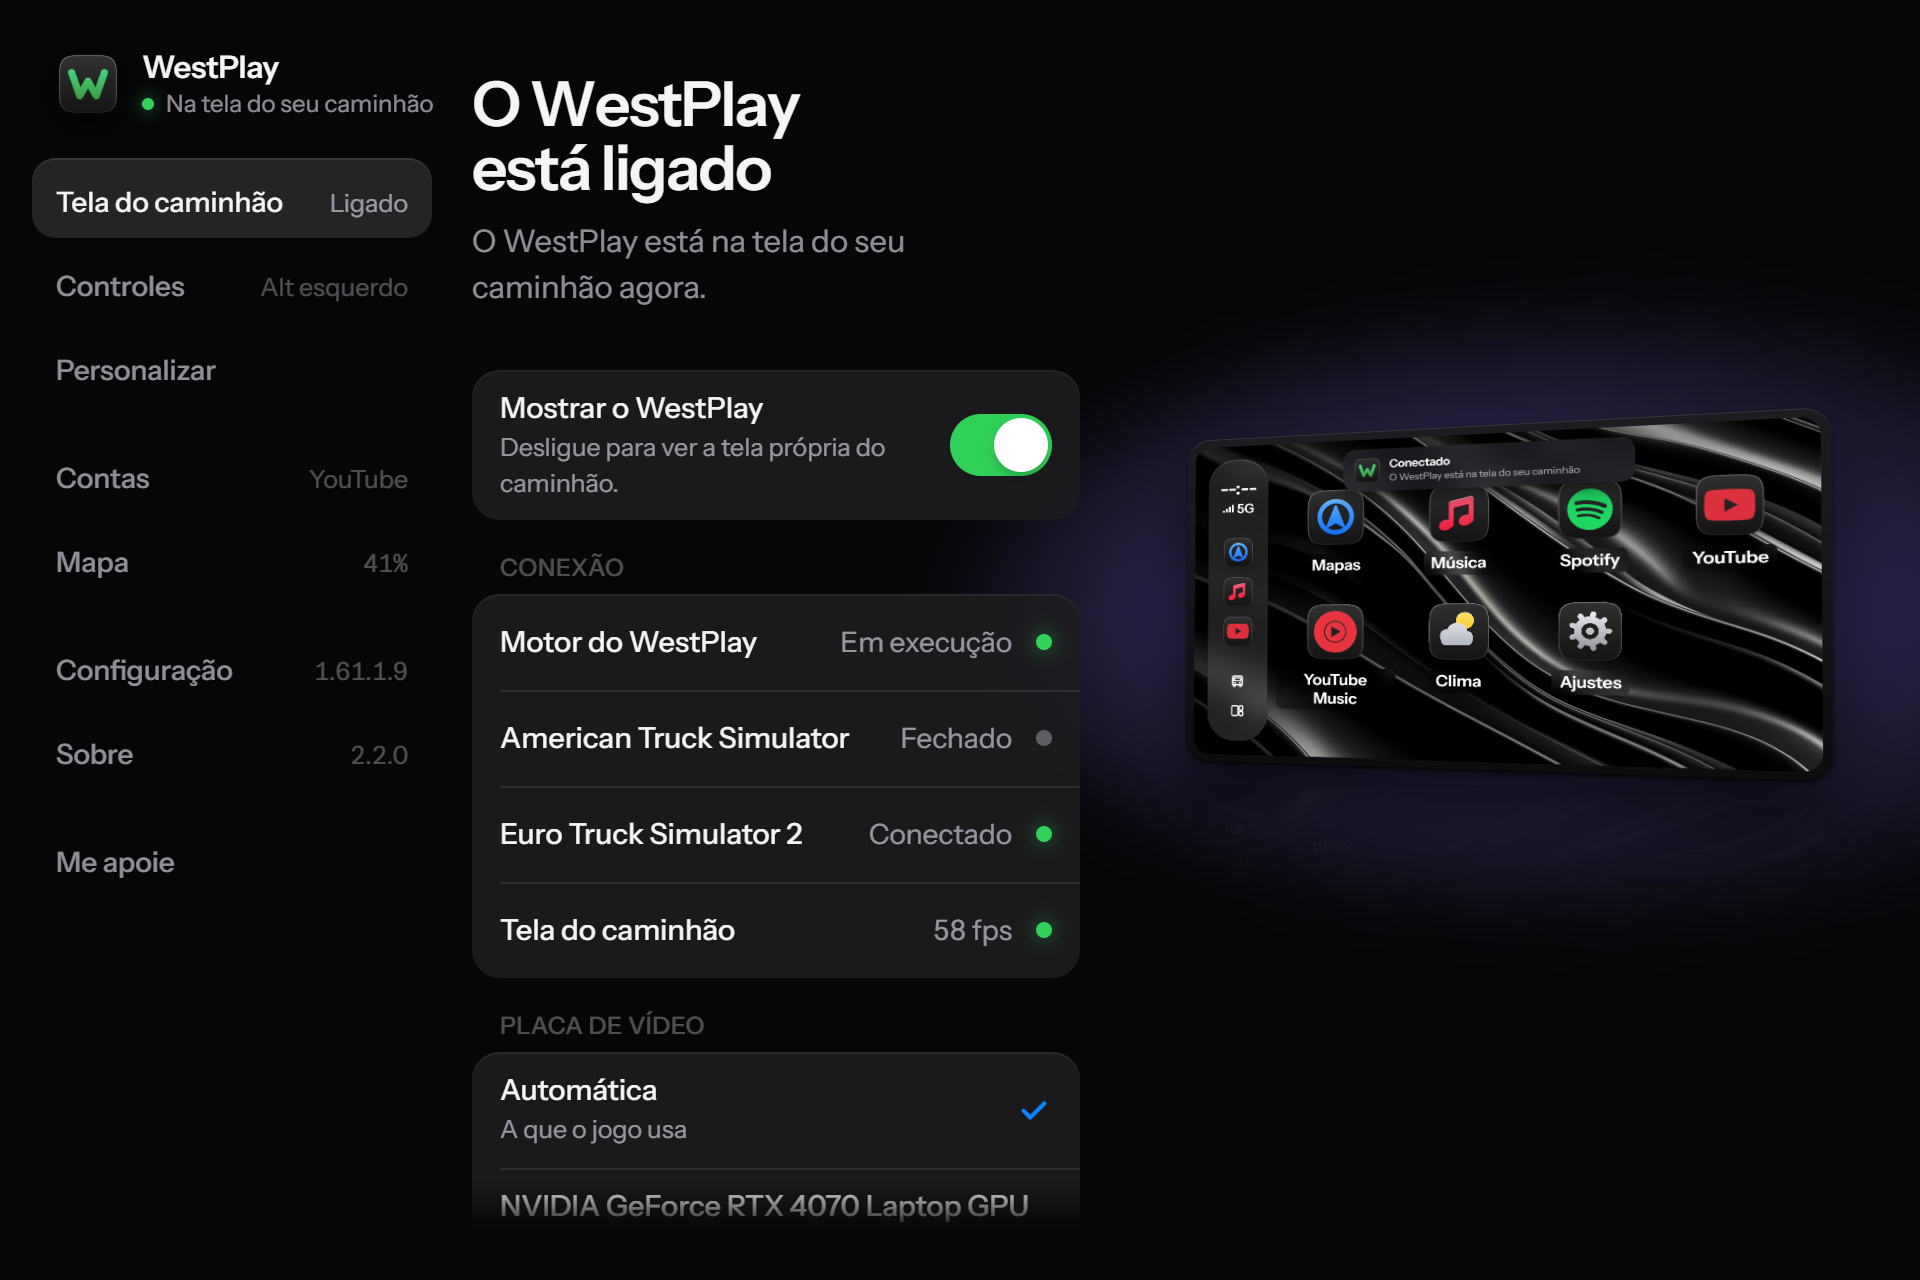
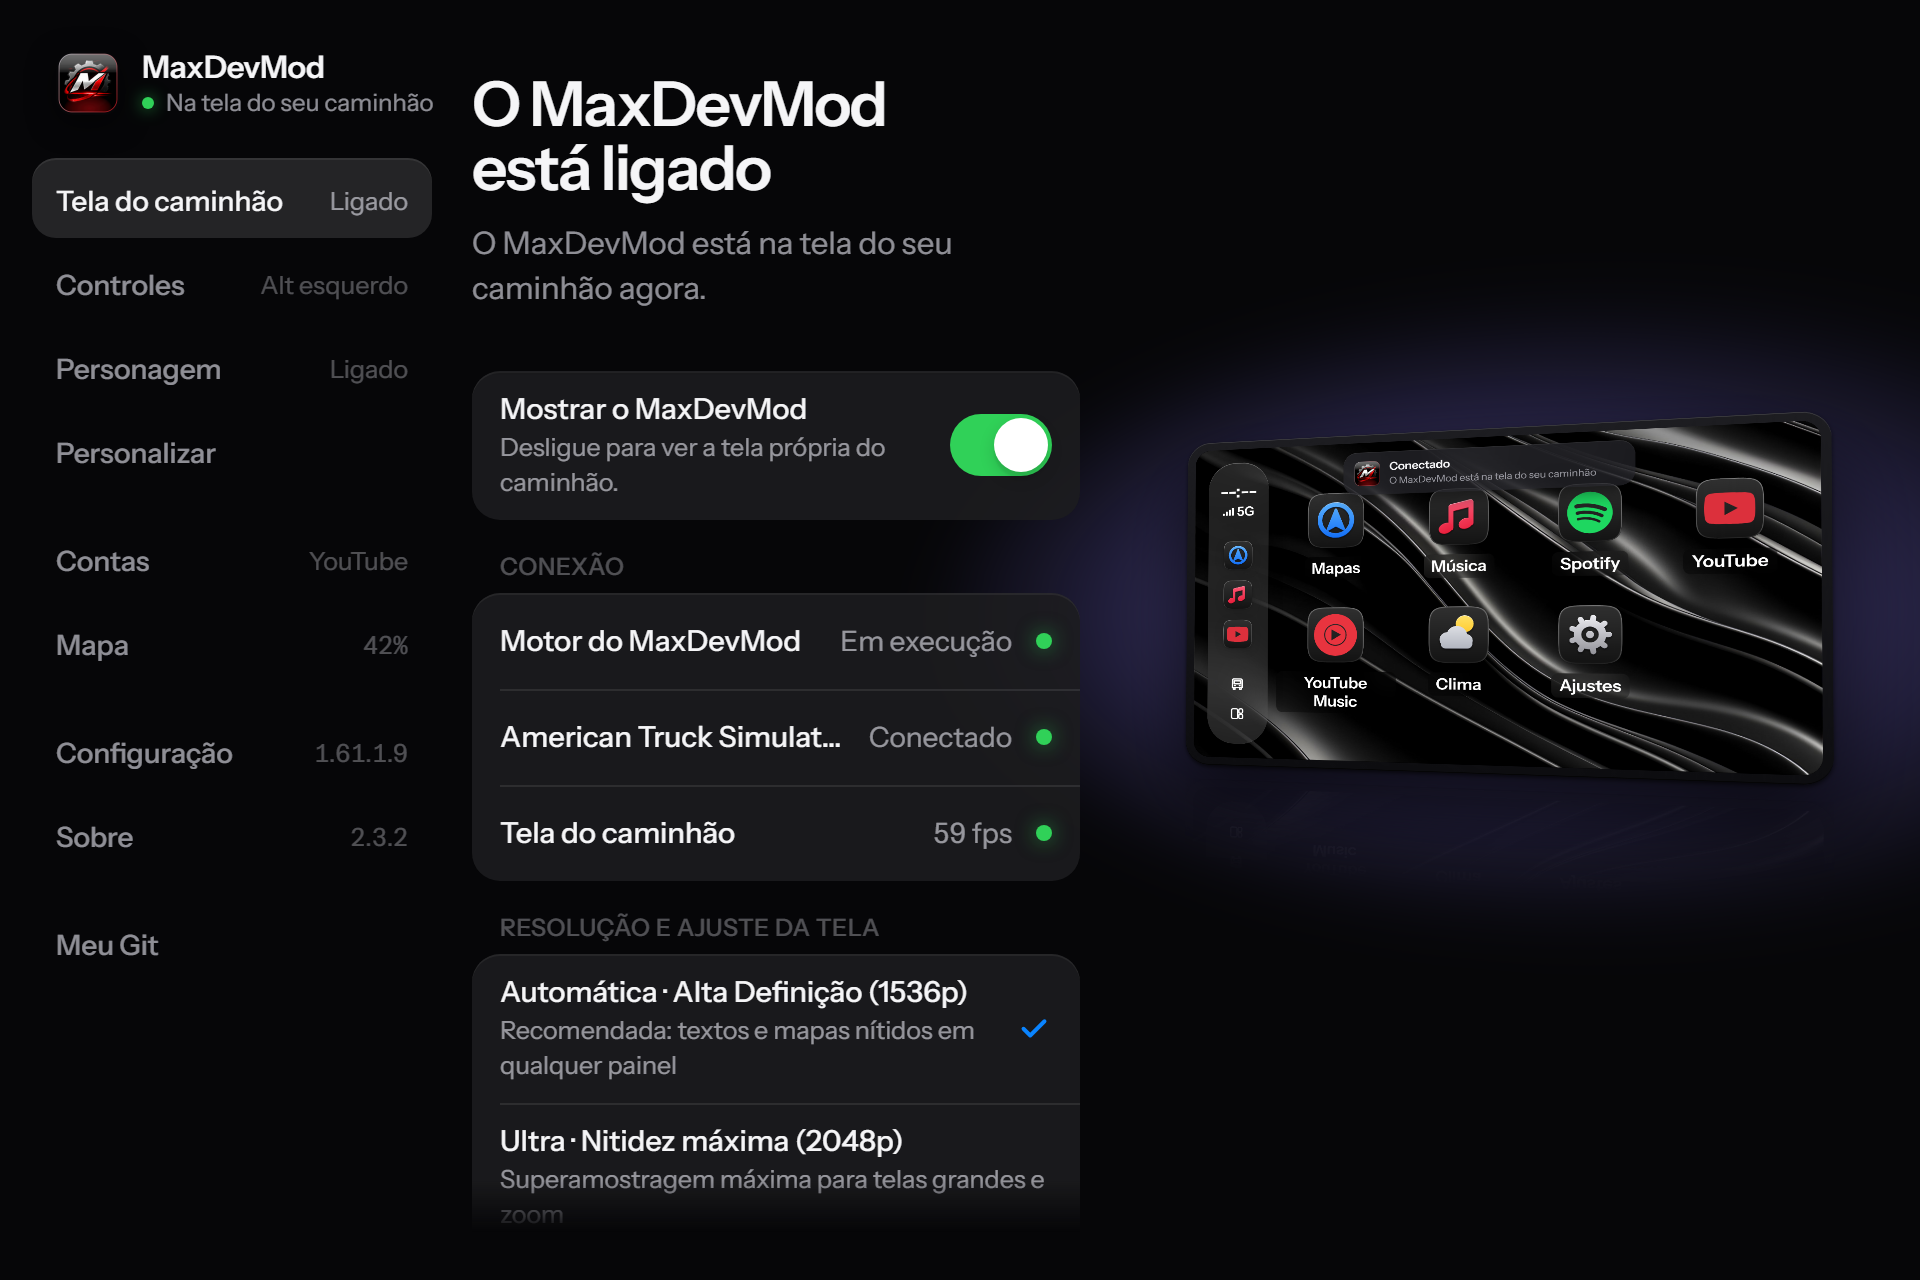
README: MaxDevMod 2.3.2, reversing camera, Modo Personagem, TikTok
The README under the new name, MaxDevMod, with what 2.3 brings: the reversing camera and
parking sensors, the Modo Personagem with its Liquid Glass HUD, the freight papers and manual
coupling, manual refuelling, TikTok with LIVE notifications on the phone, and the screen's
resolution. The PC app's screenshot taken again with the new name and logo. The credits name
WestPlay, the project it is based on.

diff --git a/README.md b/README.md
@@ -1,10 +1,11 @@
-<p align="center"><img src="ui/public/westplay.png" width="112" alt="WestPlay"></p>
+<p align="center"><img src="ui/public/maxdevmod-logo.png" width="320" alt="MaxDevMod"></p>
 
-<h1 align="center">WestPlay</h1>
+<h1 align="center">MaxDevMod</h1>
 
 <p align="center">
   <b>Uma tela no estilo CarPlay para os caminhões do American Truck Simulator e do Euro Truck Simulator 2.</b><br>
-  Seu mapa, sua música e o YouTube na tela do painel do caminhão, e um celular dentro do jogo.
+  Seu mapa, sua música e o YouTube na tela do painel, câmera de ré, um celular dentro do jogo e o Modo Personagem
+  para descer do caminhão.
 </p>
 
 <p align="center">
@@ -17,7 +18,9 @@
 
 <p align="center">
   <a href="#recursos">Recursos</a> ·
+  <a href="#câmera-de-ré">Câmera de ré</a> ·
   <a href="#o-celular">O celular</a> ·
+  <a href="#modo-personagem-beta">Modo Personagem</a> ·
   <a href="#veículos">Veículos</a> ·
   <a href="#instalação">Instalação</a> ·
   <a href="#privacidade">Privacidade</a>
@@ -28,14 +31,14 @@
 <picture>
   <source media="(prefers-color-scheme: dark)" srcset="docs/images/home-dark.png">
   <source media="(prefers-color-scheme: light)" srcset="docs/images/home-light.png">
-  <img alt="A tela inicial do WestPlay: Mapas, Música, Spotify, YouTube e YouTube Music na tela do caminhão" src="docs/images/home-dark.png" width="100%">
+  <img alt="A tela inicial do MaxDevMod: Mapas, Música, Spotify, YouTube e YouTube Music na tela do caminhão" src="docs/images/home-dark.png" width="100%">
 </picture>
 
-O WestPlay coloca uma central multimídia no estilo de um carro moderno na tela do painel do seu caminhão, dentro do
+O MaxDevMod coloca uma central multimídia no estilo de um carro moderno na tela do painel do seu caminhão, dentro do
 jogo. Ela traz a rota num mapa feito a partir do seu próprio jogo, sua música, o YouTube e o clima da viagem, tudo no
 lugar onde um caminhão de verdade tem a tela. Você usa com o mouse segurando uma tecla (Alt esquerdo, por padrão).
 
-Funciona no **American Truck Simulator** e no **Euro Truck Simulator 2**. Instalado nos dois, o WestPlay troca sozinho
+Funciona no **American Truck Simulator** e no **Euro Truck Simulator 2**. Instalado nos dois, o MaxDevMod troca sozinho
 para o jogo que você abrir.
 
 ## Recursos
@@ -82,33 +85,49 @@ para o jogo que você abrir.
   </tr>
   <tr>
     <td width="50%" valign="top">
-      <img alt="Ajustar Tela: bordas, proporção e tamanho do WestPlay na tela do veículo" src="docs/images/adjust-screen.png" width="100%">
+      <img alt="Ajustar Tela: bordas, proporção e tamanho do MaxDevMod na tela do veículo" src="docs/images/adjust-screen.png" width="100%">
       <h3>Ajustar Tela</h3>
-      Bordas, proporção e tamanho do WestPlay em cada tela, salvos por veículo, para caminhões de mod com telas de
+      Bordas, proporção e tamanho do MaxDevMod em cada tela, salvos por veículo, para caminhões de mod com telas de
       formatos diferentes. Dá para ajustar também pelo celular, se a tela ficar pequena demais para alcançar os
       Ajustes.
     </td>
     <td width="50%" valign="top">
       <img alt="Mapas sem o mapa do perfil: a grade, o rastro e a rota do GPS do jogo" src="docs/images/no-map.png" width="100%">
       <h3>Mesmo sem mapa, ele segue você</h3>
-      Num perfil cujo mapa o WestPlay não consegue montar (um mod de mapa protegido, como o Mapa Eldorado), o Mapas
+      Num perfil cujo mapa o MaxDevMod não consegue montar (um mod de mapa protegido, como o Mapa Eldorado), o Mapas
       continua acompanhando o caminhão: uma grade que anda com você, o caminho já feito e a rota do GPS do jogo.
     </td>
   </tr>
 </table>
 
-**O app no seu PC** cuida de tudo: acha o jogo, instala o WestPlay nele, monta o seu mapa e mostra em que jogo o
-WestPlay está conectado.
+**O app no seu PC** cuida de tudo: acha o jogo, instala o MaxDevMod nele, monta o seu mapa e mostra em que jogo o
+MaxDevMod está conectado. Em **Resolução e ajuste da tela** você escolhe a nitidez da tela do painel: a Automática
+(Alta Definição, 1536p) serve para qualquer painel, e a Ultra (2048p) deixa textos e mapas ainda mais nítidos nas
+telas grandes.
 
 <p align="center">
-  <img alt="O app do WestPlay no PC: o ATS fechado e o ETS2 conectado" src="docs/images/companion-games.png" width="80%">
+  <img alt="O app do MaxDevMod no PC: o ATS conectado e a tela do caminhão a 59 fps" src="docs/images/companion-games.png" width="80%">
 </p>
+
+## Câmera de ré
+
+Engate a ré e a tela do MaxDevMod no painel vira uma **câmera de ré**: na traseira da carreta, se houver uma engatada,
+ou na do caminhão. Ela some pouco depois de você tirar a ré, ou na hora se o caminhão andar para a frente.
+
+- **Linhas guia** no chão (vermelha até 1 m, amarela até 2 m, verde até 3 m) que curvam com o volante. Com carreta,
+  ela vai para o lado oposto, como na vida real.
+- **Sensores de estacionamento**: o bipe começa lento, fica mais rápido e mais alto conforme a traseira chega perto
+  de algo e vira um tom contínuo quando é para parar, com a distância ao lado da imagem.
+- A imagem é desenhada a partir do mapa do seu jogo (ruas na largura real, prédios em 3D e os caminhões dos outros
+  jogadores do TruckersMP), espelhada como numa câmera de verdade. Não é a imagem do próprio jogo.
+- Em **Ajustes → Câmera de Ré**, na tela do caminhão, cada parte liga e desliga sozinha: a câmera ao engatar a ré, o
+  bipe dos sensores e as linhas guia.
 
 ## O celular
 
 Um celular no estilo iPhone **dentro do jogo**, que aparece e some com **Alt+4**, e o mesmo celular **no seu celular de
 verdade**, pelo QR Code que o app mostra no PC. Os dois funcionam ao mesmo tempo, em qualquer caminhão, com ou sem a
-tela do WestPlay no painel.
+tela do MaxDevMod no painel.
 
 <table>
   <tr>
@@ -135,7 +154,14 @@ tela do WestPlay no painel.
 
 Ele também tem **Frete** (a carga e o peso, de onde para onde, quanto falta e quanto paga), **Caminhão** (velocidade, combustível, autonomia,
 piloto automático, motor, freio de mão e luzes), **Serviços** (abre a janela de serviços do jogo, com guincho e
-oficina, e estaciona rápido), o **mapa** e a **música**: YouTube Music, Spotify e o que estiver tocando.
+oficina, e estaciona rápido), **Personagem**, o **mapa** e a **música**: YouTube Music, Spotify e o que estiver
+tocando. Na segunda página dos apps ficam o Nupay, Serviços, Personagem e TikTok, com setas nos cantos para trocar de
+página. O celular se guarda sozinho no menu do jogo.
+
+**TikTok e notificações da LIVE.** O app TikTok do celular é o site oficial do TikTok: dá para rolar o feed, curtir,
+seguir e comentar como no site. Entre na sua conta em **Contas → TikTok**, no app do PC. Com a conta conectada, quem
+segue, manda presente, compartilha ou se inscreve na sua LIVE aparece como notificação no celular, com som. Com o
+celular guardado, só o topo dele sobe no canto da tela para mostrar o aviso.
 
 **O painel no celular.** O outro QR Code abre a tela do caminhão inteira no seu celular, deitado: o mapa, a rota, o
 que está tocando. É a mesma tela do painel, e tudo o que você faz nela vale no jogo.
@@ -144,14 +170,39 @@ que está tocando. É a mesma tela do painel, e tudo o que você faz nela vale n
   <img alt="A tela do caminhão no celular, deitado: o mapa com a rota, o destino e o que está tocando" src="docs/images/phone-panel.png" width="80%">
 </p>
 
-Para usar pelo celular de verdade, ele precisa estar na mesma rede Wi-Fi do PC. Abra o WestPlay no PC, vá em **Tela
+Para usar pelo celular de verdade, ele precisa estar na mesma rede Wi-Fi do PC. Abra o MaxDevMod no PC, vá em **Tela
 do caminhão** e escaneie um dos QR Codes com a câmera.
+
+## Modo Personagem (beta)
+
+Pare o caminhão, aperte **F8** e desça. Você anda pelo mundo do jogo em primeira ou terceira pessoa, com um dos
+personagens do MaxDevMod, escolhido pela foto na página **Personagem** do app. Completo no ETS2; no ATS ainda falta
+uma parte.
+
+- Andar, correr (Shift), pular (Espaço), agachar (Ctrl), com passos e a porta do motorista abrindo e fechando.
+- O celular vai na mão quando você está a pé e é guardado quando você corre ou entra no caminhão. A música fica
+  abafada fora da cabine.
+- **HUD Liquid Glass:** uma barra de vidro, embaixo e no centro da tela, mostra as teclas que valem naquele momento
+  (descer, entrar, abastecer, assinar...). Ela entra e sai suavemente e a tecla apertada pisca em vermelho.
+- A câmera lembra se você estava em primeira ou terceira pessoa.
+
+Só no single player, e cada uma das partes abaixo liga e desliga nos **Ajustes** do celular do jogo:
+
+- **Nota fiscal e engate manual.** No frete com o seu caminhão, um conferente espera ao lado da carreta. Desça,
+  aperte **E** nele, assine a nota fiscal com o mouse e colete. Só então a carreta engata, e o engate é feito por
+  você: encoste a quinta roda sob o pino, desça e aperte **E** na quinta roda. Na entrega, o destinatário assina e
+  carimba o canhoto antes de você finalizar. O frete rápido continua como sempre.
+- **Abastecimento manual.** Na bomba (o ícone verde do galão), o Enter na cabine não abastece mais: desça, vá até o
+  tanque, ao lado do caminhão, e aperte **E**. O tanque enche e para sozinho quando está cheio, e o jogo cobra como
+  sempre.
+
+Para usar, deixe o app do MaxDevMod aberto no PC: sem ele, o F8 não faz nada.
 
 ## Veículos
 
-O WestPlay aparece de dois jeitos: **na própria tela do caminhão** ou **no tablet do WestPlay**.
+O MaxDevMod aparece de dois jeitos: **na própria tela do caminhão** ou **no tablet do MaxDevMod**.
 
-**Na própria tela do caminhão.** Nos caminhões que têm tela no painel, o WestPlay ocupa o lugar do GPS, no formato
+**Na própria tela do caminhão.** Nos caminhões que têm tela no painel, o MaxDevMod ocupa o lugar do GPS, no formato
 dela. Não precisa comprar nem instalar nada: é entrar e ele está lá.
 
 | American Truck Simulator | Euro Truck Simulator 2 |
@@ -163,18 +214,18 @@ dela. Não precisa comprar nem instalar nada: é entrar e ele está lá.
 | **Carros:** Ford Bronco (2024) e F-150 (2023) | Volvo FH (2021 e 2024) |
 | | Ônibus do Oyuncuyusbis: Travego 16 SHD, MAN Lion's Coach, Setra S 531 DT e S 516 HD/2 |
 
-**Caminhões de mod com tela própria.** O WestPlay procura nos mods instalados os caminhões que têm tela de GPS e passa
+**Caminhões de mod com tela própria.** O MaxDevMod procura nos mods instalados os caminhões que têm tela de GPS e passa
 a usar essa tela sozinho, sem precisar de nada a mais. Se ela ficar torta ou cortada, use o **Ajustar Tela**.
 
-**No tablet do WestPlay.** Os outros caminhões, do jogo ou de mod, ganham o WestPlay num tablet que você coloca na
+**No tablet do MaxDevMod.** Os outros caminhões, do jogo ou de mod, ganham o MaxDevMod num tablet que você coloca na
 oficina: em Acessórios, nos Itens pendurados ou como conjunto de painel. A tela do caminhão continua com a navegação do
 jogo.
 
-|  | Tela do caminhão | Tablet do WestPlay |
+|  | Tela do caminhão | Tablet do MaxDevMod |
 |---|---|---|
 | Caminhões | Os da lista e os de mod com tela | Todos os outros |
 | Como ter | Nada: já está lá | Coloque na oficina |
-| A navegação do jogo | Trocada pelo WestPlay | Continua na tela do caminhão |
+| A navegação do jogo | Trocada pelo MaxDevMod | Continua na tela do caminhão |
 
 <details>
 <summary><b>O som nos alto-falantes do caminhão (ETS2)</b></summary>
@@ -209,7 +260,7 @@ A música sai dos alto-falantes do caminhão, cada um onde fica na cabine. Os ou
 
 1. Baixe o instalador na [última versão](https://github.com/Mateuslima09/ETS-ATS-CarPlay/releases/latest) e rode, com os
    jogos fechados.
-2. O app abre e guia você no resto: acha o jogo, instala o plugin e o mod de telas do WestPlay e monta o seu mapa.
+2. O app abre e guia você no resto: acha o jogo, instala o plugin e o mod de telas do MaxDevMod e monta o seu mapa.
 3. Para usar também no outro jogo, vá em **Configuração → Outros jogos** e clique em **Instalar**.
 4. Abra o jogo e entre num caminhão.
 
@@ -222,13 +273,13 @@ instalador coloca onde faltar).
 
 ## Privacidade
 
-O WestPlay não tem servidores, contas próprias nem coleta de dados. Ele não junta nem envia nada sobre você.
+O MaxDevMod não tem servidores, contas próprias nem coleta de dados. Ele não junta nem envia nada sobre você.
 
-- Você entra no Apple Music, no Spotify e no YouTube nas páginas deles, no navegador do próprio WestPlay no seu PC,
-  como faria num navegador. O WestPlay não guarda dados das suas contas.
+- Você entra no Apple Music, no Spotify e no YouTube nas páginas deles, no navegador do próprio MaxDevMod no seu PC,
+  como faria num navegador. O MaxDevMod não guarda dados das suas contas.
 - O seu mapa é montado a partir do seu jogo, no seu PC, e fica lá.
 - O celular pelo QR Code fala só com o seu PC, pela sua rede Wi-Fi.
-- O WestPlay só fala com os serviços que você usa.
+- O MaxDevMod só fala com os serviços que você usa.
 
 <details>
 <summary><b>Compilar a partir do código</b></summary>
@@ -238,7 +289,7 @@ Você precisa do [Rust](https://rustup.rs) (stable) e do [Node.js](https://nodej
 
 ```sh
 npm install      # as ferramentas do app e os pacotes da interface
-npm run dev      # o WestPlay, com a interface servida ao vivo
+npm run dev      # o MaxDevMod, com a interface servida ao vivo
 ```
 
 `cargo test --workspace` e `npm test --prefix ui` rodam os testes. O plugin do jogo é compilado com
@@ -248,23 +299,26 @@ npm run dev      # o WestPlay, com a interface servida ao vivo
 
 ## Créditos
 
-Esta versão é baseada no [WestPlay](https://github.com/enes-less/WestPlay), de enes-less, feito para o Euro Truck
-Simulator 2. Ela traz o American Truck Simulator, os dois jogos juntos, o celular dentro do jogo e pelo QR Code, o
-Nupay e o resto descrito acima. Para apoiar o autor do WestPlay original:
+O MaxDevMod é baseado no [WestPlay](https://github.com/enes-less/WestPlay), de enes-less, feito para o Euro Truck
+Simulator 2. Esta versão traz o American Truck Simulator, os dois jogos juntos, o celular dentro do jogo e pelo QR
+Code, o Nupay, a câmera de ré, o Modo Personagem e o resto descrito acima. Para apoiar o autor do WestPlay original,
+veja o [Kreosus dele](https://kreosus.com/enes-less).
+
+Gostou do MaxDevMod? Deixe uma estrela no repositório:
 
 <p>
-  <a href="https://kreosus.com/enes-less"><img alt="Apoie o WestPlay no Kreosus" src="https://img.shields.io/badge/apoie%20no-Kreosus-409c42?style=for-the-badge"></a>
+  <a href="https://github.com/Mateuslima09/ETS-ATS-CarPlay"><img alt="Deixe uma estrela no GitHub" src="https://img.shields.io/badge/GitHub-MaxDevMod-409c42?style=for-the-badge"></a>
 </p>
 
 ## Licença
 
-O WestPlay é software livre: você pode redistribuir e modificar nos termos da GNU General Public License, versão 3 ou
+O MaxDevMod é software livre: você pode redistribuir e modificar nos termos da GNU General Public License, versão 3 ou
 (se preferir) qualquer versão posterior. Veja [LICENSE](LICENSE).
 
-As bibliotecas que vêm com o WestPlay mantêm as próprias licenças: veja
+As bibliotecas que vêm com o MaxDevMod mantêm as próprias licenças: veja
 [THIRD_PARTY_LICENSES.md](THIRD_PARTY_LICENSES.md) e [THIRD_PARTY_NOTICES.md](THIRD_PARTY_NOTICES.md).
 
-<sub>O WestPlay é um projeto independente, sem ligação com a Apple, a SCS Software, o Spotify, o Google, o Nubank ou as
-montadoras, nem endossado por eles. CarPlay, Apple Music, Spotify, YouTube, YouTube Music e os nomes e marcas das
-montadoras pertencem aos seus donos e são usados só para dizer com o que o WestPlay funciona. Os prints mostram a
-prévia do WestPlay com dados de exemplo.</sub>
+<sub>O MaxDevMod é um projeto independente, sem ligação com a Apple, a SCS Software, o Spotify, o Google, o TikTok, o Nubank ou
+as montadoras, nem endossado por eles. CarPlay, Apple Music, Spotify, YouTube, YouTube Music, TikTok e os nomes e marcas das
+montadoras pertencem aos seus donos e são usados só para dizer com o que o MaxDevMod funciona. Os prints mostram a
+prévia do MaxDevMod com dados de exemplo.</sub>
